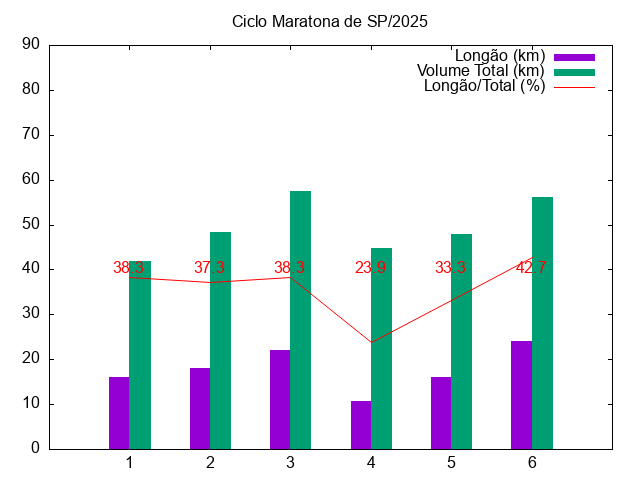
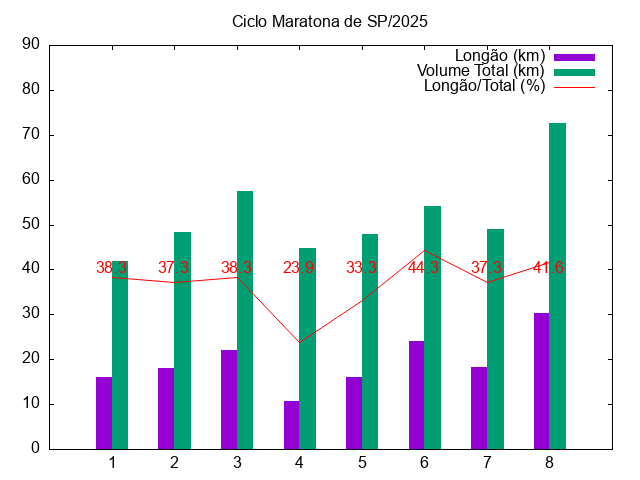
fix

Changed region(s): [[0.125, 0.25, 0.9062, 0.9688]]

diff --git a/content/series/maratona-internacional-de-sao-paulo-2025/_index.md b/content/series/maratona-internacional-de-sao-paulo-2025/_index.md
@@ -32,7 +32,7 @@ Segue a tabela dos dados do gráfico acima:
 
 <a id="table--volumes"></a>
 
-| # Semana | Longão (km) | Volume Total (km) | Longão/Total (%) | Como Planejado? | Se sim, qual?                 |
+| # Semana | Longão (km) | Volume Total (km) | Longão/Total (%) | Como Planejado? | Comentário                    |
 |----------|-------------|-------------------|------------------|:---------------:|-------------------------------|
 | 1        | 16          | 41.8              | 38.3             | ✓               |                               |
 | 2        | 18          | 48.3              | 37.3             | ✓               |                               |
@@ -40,3 +40,5 @@ Segue a tabela dos dados do gráfico acima:
 | 4        | 10.7        | 44.7              | 23.9             | ❌              | problema intestinal no longão |
 | 5        | 16          | 48                | 33.3             | ✓               |                               |
 | 6        | 24          | 56.2              | 42.7             | ✓               |                               |
+| 7        | 18.3        | 49.1              | 37.3             | ✓               | longão no Pico do Jaraguá     |
+| 8        | 30.2        | 72.6              | 41.6             | ✓               |                               |
